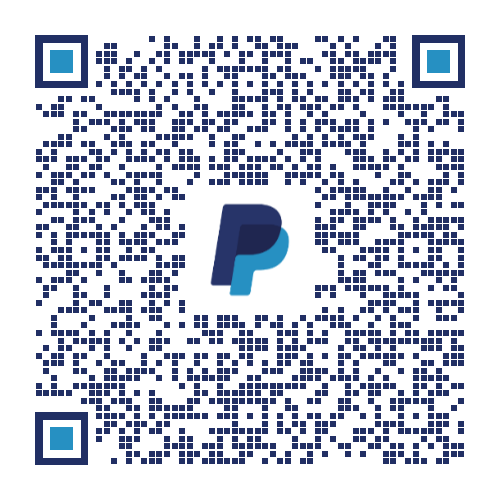
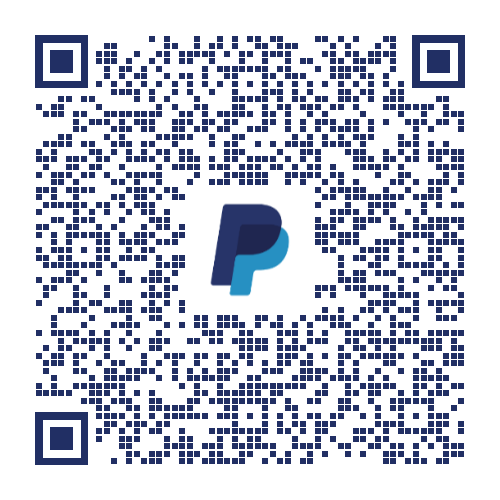
1.1.0 features 5 + 8: theme rotation, ?nonag=1, all-navy QR codes
Theme rotation — the palette advances every 30 s until the user picks one,
armed when the boot splash clears. Shared applyPalette() behind both the tick
and a user press; a press cancels the rotation for the session. Mirrors the
app/ change (this clone is hand-maintained).

?nonag=1 suppresses the exit-intent donation pop-up entirely, checked before
any listener is registered so it beats ?donate=1 when both are present.
Parameter only, no localStorage — a shared link can carry the suppression
without silently persisting it on the visitor's device.

QR codes regenerated with all-navy finder centers and a navy BTC mark, so the
nag's themeQR() luminance remap tints them to full ink instead of dim shades.
All six still decode (ZXing verify in the generator).

Splash re-stamped to v1.1.0. sw.js deliberately stays at fireside-v8 per the
standing cache hold until the branch merges.

Changed region(s): [[0.84, 0.09, 0.9, 0.15], [0.09, 0.84, 0.15, 0.9], [0.09, 0.09, 0.15, 0.15]]

diff --git a/js/main.js b/js/main.js
@@ -145,12 +145,41 @@ function applyButtonStyle() {
 }
 
 // --- Actions ---------------------------------------------------------------
-function selectPalette(i) {
-  if (i < 0 || i >= PALETTES.length) return;
+// Apply a palette without any side effect on the rotation — the shared path
+// used by both a user press and the auto-rotation.
+function applyPalette(i) {
   paletteIndex = i;
   applyButtonStyle();
   crt.setMonochrome(palette().monochrome, palette().textRGB);
   console.log("[Palette]", palette().name);
+}
+
+function selectPalette(i) {
+  if (i < 0 || i >= PALETTES.length) return;
+  stopThemeRotation();   // the user is taking control of the theme
+  applyPalette(i);
+}
+// --- Theme rotation ----------------------------------------------------------
+// Until the user picks a theme, cycle the palette on its own so the app shows
+// off the whole set unattended (PLAN-1.1.0.md feature 5). Armed when the boot
+// splash clears, so the first advance never lands during the splash.
+//
+// The rotation walks the FULL list, premium themes included — it is a showcase,
+// so it applies palettes directly and never consults the paywall gate. Only a
+// deliberate palette press stops it; O2/fuel, sound and CRT input all leave it
+// running. No persistence: every launch starts rotating again.
+const ROTATE_MS = 30000;
+let rotateTimer = null;
+
+function startThemeRotation() {
+  if (rotateTimer !== null) return;
+  rotateTimer = setInterval(() => applyPalette((paletteIndex + 1) % PALETTES.length), ROTATE_MS);
+}
+
+function stopThemeRotation() {
+  if (rotateTimer === null) return;
+  clearInterval(rotateTimer);
+  rotateTimer = null;
 }
 
 function toggleCrt() {
@@ -310,10 +339,12 @@ async function init() {
   // Any key or click skips it.
   const splash = document.getElementById("splash");
   if (splash) {
-    const dismiss = () => splash.remove();
+    const dismiss = () => { splash.remove(); startThemeRotation(); };
     setTimeout(dismiss, 5000);
     window.addEventListener("keydown", dismiss, { once: true });
     window.addEventListener("pointerdown", dismiss, { once: true });
+  } else {
+    startThemeRotation();   // no splash to wait on
   }
 
   // PWA: register the service worker for offline + install support.

diff --git a/js/donate.js b/js/donate.js
@@ -9,7 +9,11 @@
 // Ripple BL, Square bottom-center, Ethereum BR — re-tinted at show time:
 // modules in the PLEASE DONATE hot color on a black tile.
 //
-// Preview while styling: open the page with ?donate=1.
+// URL hooks: ?donate=1 forces the pop-up open (preview while styling);
+// ?nonag=1 suppresses it entirely. If both are given, nonag wins. Parameter
+// only — deliberately no localStorage, so a shared link can carry the
+// suppression without silently persisting it on the visitor's device
+// (PLAN-1.1.0.md feature 8).
 
 let shown = false;
 let overlay = null;
@@ -115,6 +119,12 @@ function build(p) {
 }
 
 export function initDonation(getPalette) {
+  const params = new URLSearchParams(location.search);
+
+  // Opt out entirely. Checked before anything is wired up, so no listener is
+  // registered at all — and it beats ?donate=1 when both are present.
+  if (params.has("nonag")) return;
+
   const show = () => {
     if (shown) return;
     shown = true;
@@ -127,5 +137,5 @@ export function initDonation(getPalette) {
     if (!e.relatedTarget && e.clientY <= 0) show();
   });
 
-  if (new URLSearchParams(location.search).has("donate")) show();
+  if (params.has("donate")) show();
 }
